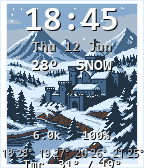
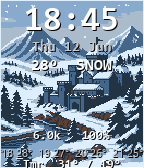
Fix scene crop to strip inset white mattes for true full-bleed art.

diff --git a/tools/prepare_assets.py b/tools/prepare_assets.py
@@ -35,48 +35,39 @@ WHITE_BORDER = 230
 def crop_white_border(im: Image.Image, threshold: int = WHITE_BORDER) -> Image.Image:
     """Remove PixelLab letterbox / window frames so scenes are full-bleed.
 
-    PixelLab often leaves a 1px dirty edge outside a thick white matte. Treat
-    near-white as empty and crop to the real painted content bbox.
+    PixelLab often draws a 1px dirty edge, then a thick white matte, then art.
+    Take the longest contiguous non-matte run of columns/rows (the real scene).
     """
     im = im.convert("RGBA")
     w, h = im.size
-    mask = Image.new("L", (w, h), 0)
-    src = im.load()
-    dst = mask.load()
-    for y in range(h):
-        for x in range(w):
-            r, g, b, a = src[x, y]
-            if a < 8:
-                continue
-            if r >= threshold and g >= threshold and b >= threshold:
-                continue
-            dst[x, y] = 255
+    px = im.load()
 
-    bbox = mask.getbbox()
-    if not bbox:
+    def is_white(x: int, y: int) -> bool:
+        r, g, b, a = px[x, y]
+        return a < 8 or (r >= threshold and g >= threshold and b >= threshold)
+
+    col_matte = [
+        sum(1 for y in range(h) if is_white(x, y)) > 0.85 * h for x in range(w)
+    ]
+    row_matte = [
+        sum(1 for x in range(w) if is_white(x, y)) > 0.85 * w for y in range(h)
+    ]
+
+    def longest_false_run(flags: list[bool]) -> tuple[int, int]:
+        best_s, best_e, start = 0, 0, None
+        for i, flag in enumerate(flags + [True]):
+            if not flag and start is None:
+                start = i
+            elif flag and start is not None:
+                if i - start > best_e - best_s:
+                    best_s, best_e = start, i
+                start = None
+        return best_s, best_e
+
+    left, right = longest_false_run(col_matte)
+    top, bottom = longest_false_run(row_matte)
+    if right - left < 8 or bottom - top < 8:
         return im
-
-    left, top, right, bottom = bbox
-    # Trim residual mostly-empty gutters (white columns with a few content pixels).
-    px = mask.load()
-
-    def mostly_empty_col(x: int) -> bool:
-        painted = sum(1 for y in range(top, bottom) if px[x, y])
-        return painted < 0.15 * (bottom - top)
-
-    def mostly_empty_row(y: int) -> bool:
-        painted = sum(1 for x in range(left, right) if px[x, y])
-        return painted < 0.15 * (right - left)
-
-    while left < right - 8 and mostly_empty_col(left):
-        left += 1
-    while right > left + 8 and mostly_empty_col(right - 1):
-        right -= 1
-    while top < bottom - 8 and mostly_empty_row(top):
-        top += 1
-    while bottom > top + 8 and mostly_empty_row(bottom - 1):
-        bottom -= 1
-
     return im.crop((left, top, right, bottom))
 
 
